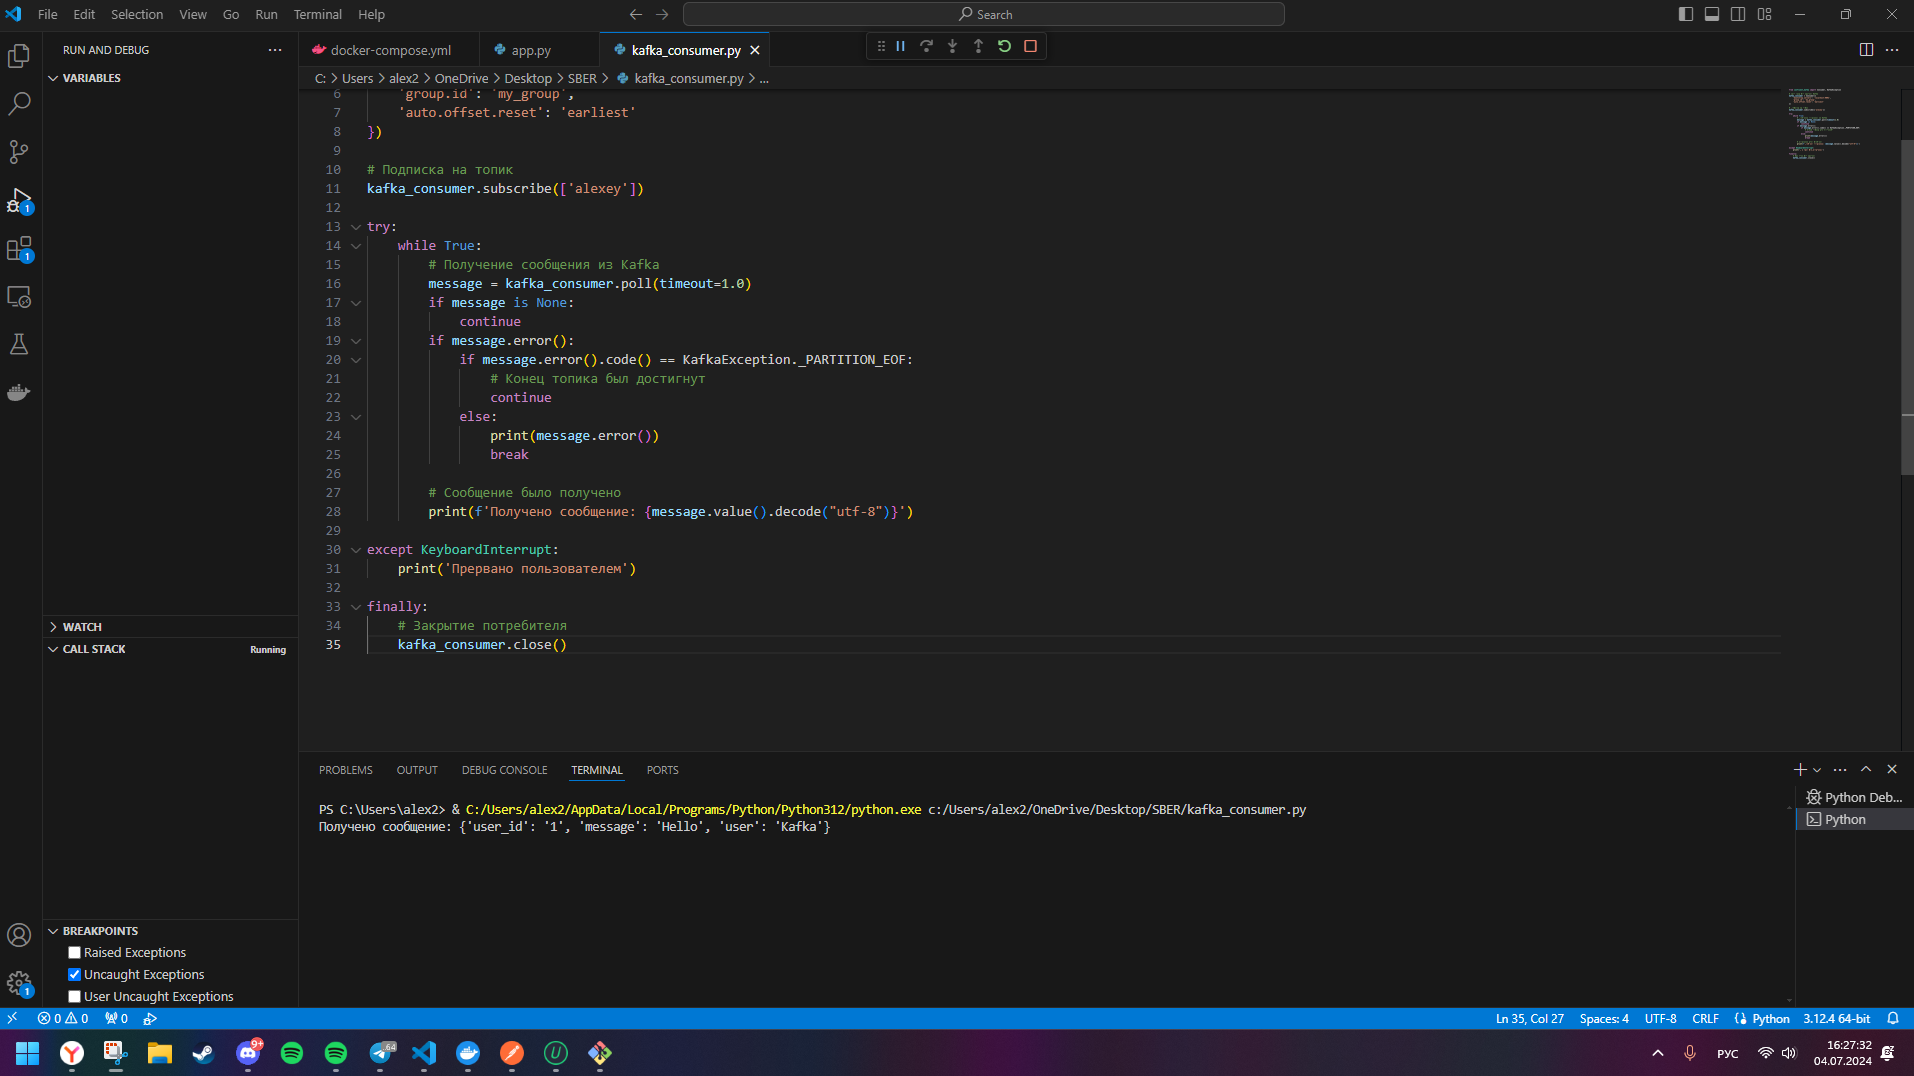
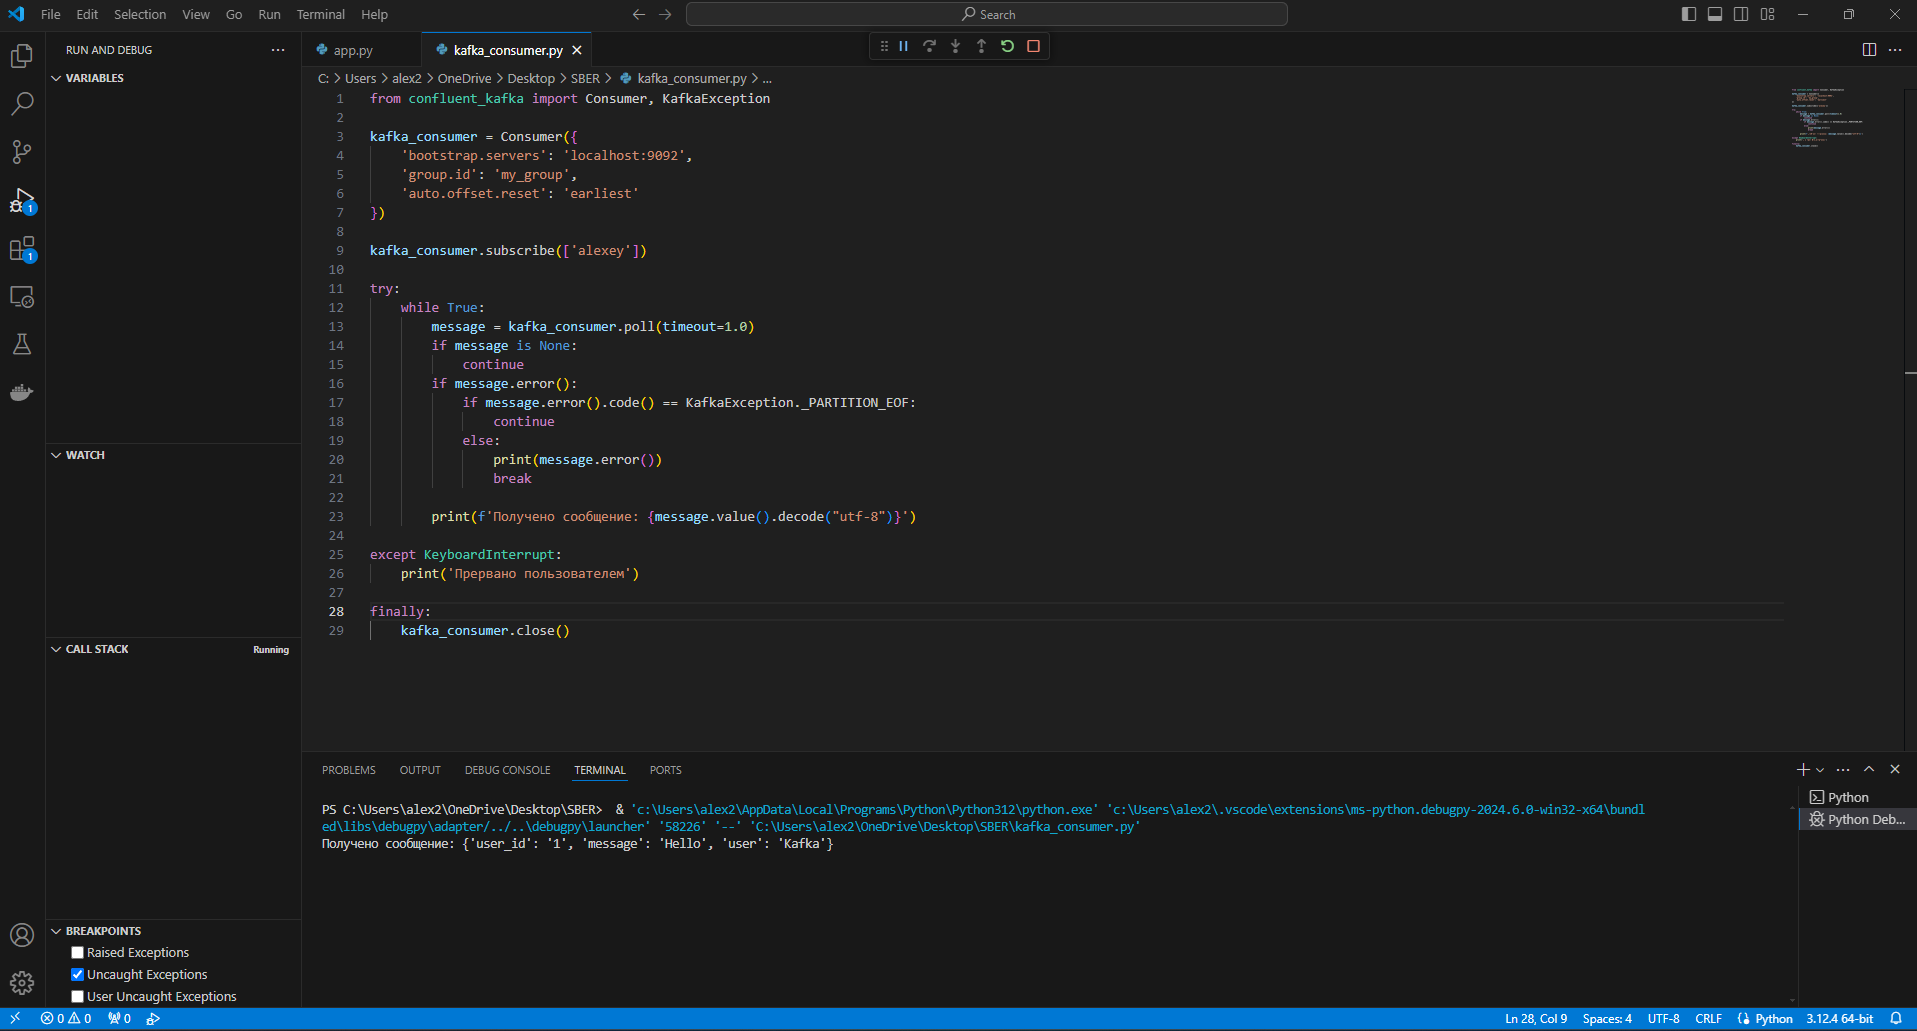
1

diff --git a/kafka_consumer.py b/kafka_consumer.py
@@ -1,35 +1,29 @@
 from confluent_kafka import Consumer, KafkaException
 
-# Настройка потребителя Kafka
 kafka_consumer = Consumer({
     'bootstrap.servers': 'localhost:9092',
     'group.id': 'my_group',
     'auto.offset.reset': 'earliest'
 })
 
-# Подписка на топик
 kafka_consumer.subscribe(['alexey'])
 
 try:
     while True:
-        # Получение сообщения из Kafka
         message = kafka_consumer.poll(timeout=1.0)
         if message is None:
             continue
         if message.error():
             if message.error().code() == KafkaException._PARTITION_EOF:
-                # Конец топика был достигнут
                 continue
             else:
                 print(message.error())
                 break
 
-        # Сообщение было получено
         print(f'Получено сообщение: {message.value().decode("utf-8")}')
 
 except KeyboardInterrupt:
     print('Прервано пользователем')
 
 finally:
-    # Закрытие потребителя
     kafka_consumer.close()
